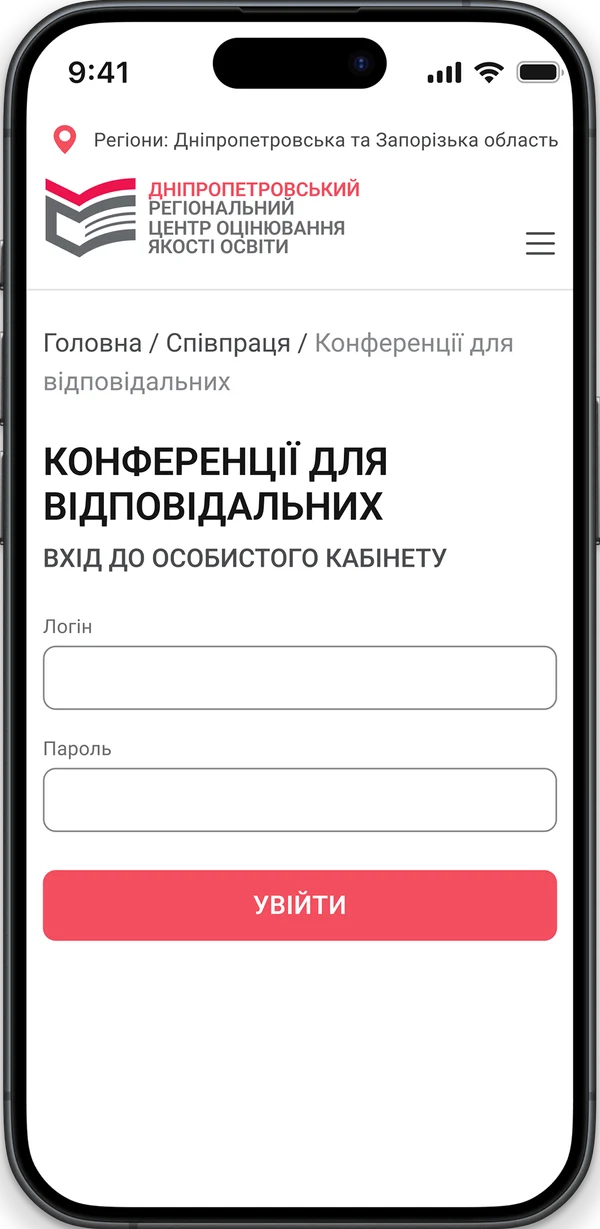
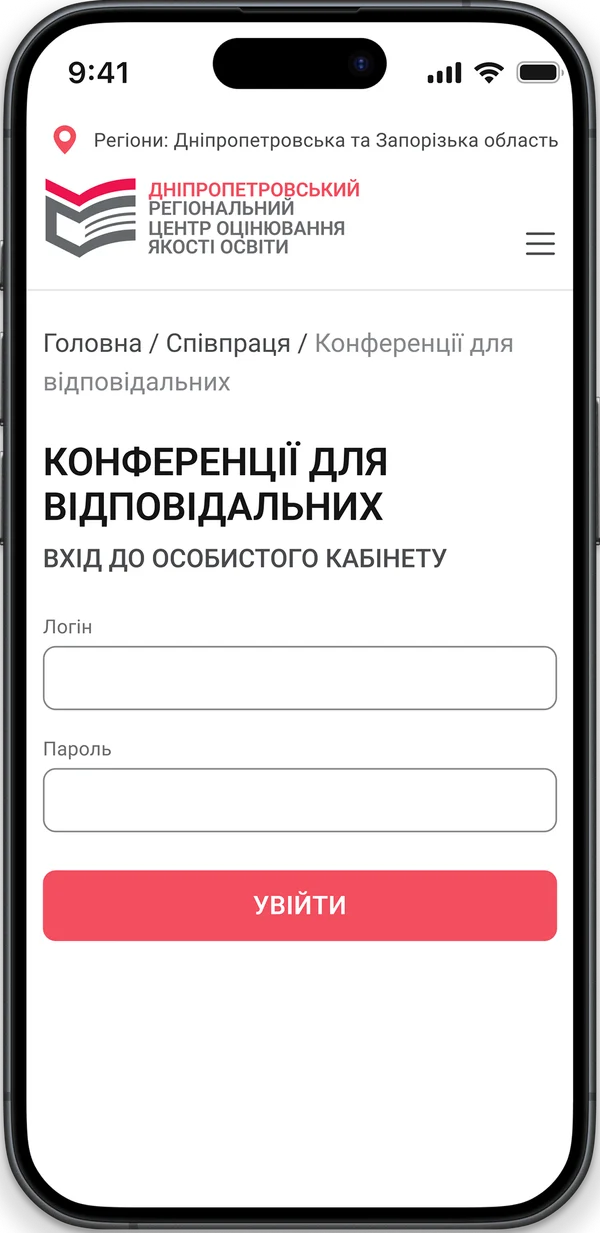
DRCEQA: a bigger phone over the account pages

diff --git a/ui/kit.css b/ui/kit.css
@@ -534,7 +534,7 @@
   --layout-persona-who: 2fr 3fr;
   --layout-kitf: 3fr 2fr;
   --size-page-window: 460px;
-  --size-page-phone: 22%;
+  --size-page-phone: 30%;
   --size-kitf-chip: 52px;
   /* stickies from Lera's boards, paper: the same in both themes */
   --color-sticky-blue: #a8dafd;
